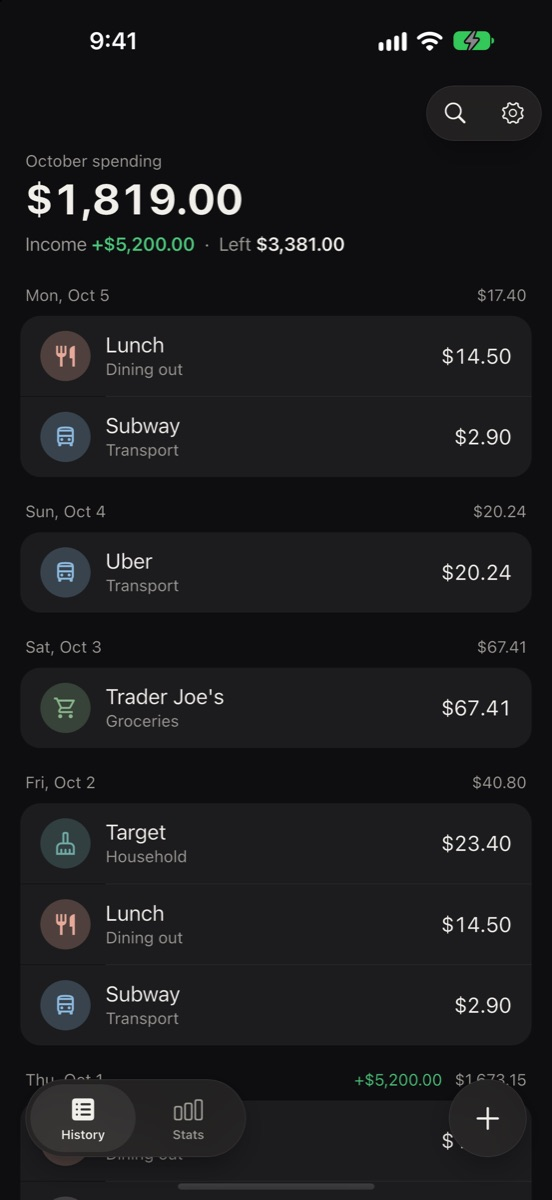
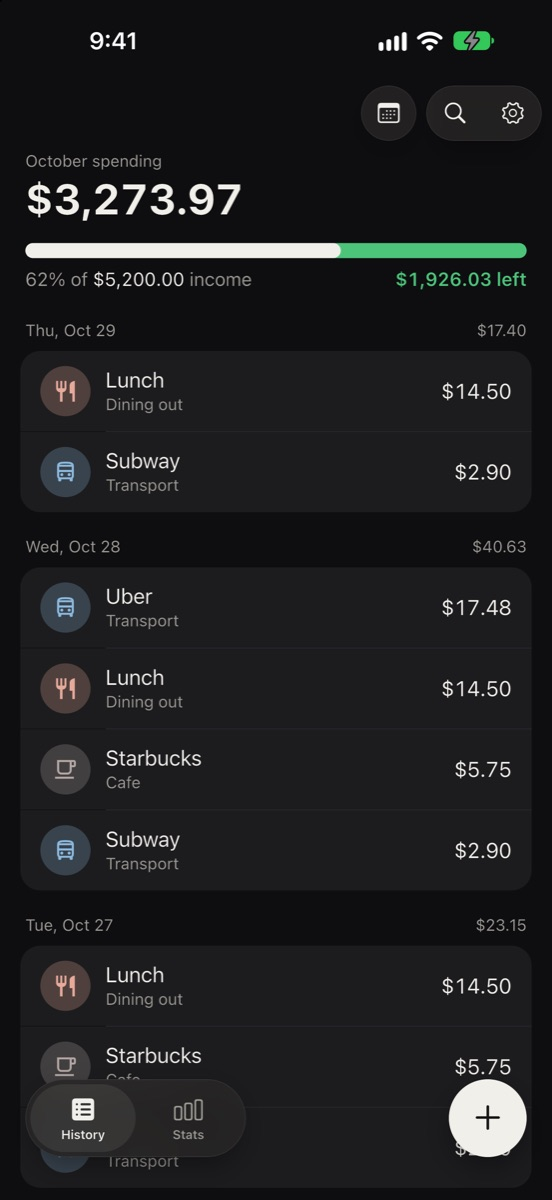
Landing: new Home screenshots and link-preview cards
- Phone screens and share cards show the redesigned Home
- Move the "Grouped by day" marker to the day header
- Slightly darker muted text and neutral eyebrows for contrast

diff --git a/index.html b/index.html
@@ -33,7 +33,7 @@
   /* App tokens (lib/shared/theme/app_colors.dart) */
   :root {
     --bg: #F6F4EE; --surface: #FFFFFF; --muted-surface: #ECE9E1;
-    --text: #22211F; --muted: #6F6E6A; --line: #E2DED5;
+    --text: #22211F; --muted: #686763; --line: #E2DED5;
     --ink: #22211F; --on-ink: #F6F4EE; --green: #1A8048;
     --band: #22211F; --band-text: #F1EFEA; --band-muted: #A9A69E;
     --shadow: 0 30px 60px -20px rgba(40,30,10,.28), 0 12px 24px -12px rgba(40,30,10,.18);
@@ -129,7 +129,7 @@
   .intro p { color: var(--muted); font-size: 19px; margin: 0; }
   .pillar { display: grid; grid-template-columns: 1fr 1fr; gap: 72px; align-items: center; padding-block: 24px 120px; }
   .pillar.flip .copy { order: 2; }
-  .eyebrow { display: flex; align-items: center; gap: 10px; font-size: 15px; font-weight: 700; color: var(--green); margin-bottom: 14px; }
+  .eyebrow { display: flex; align-items: center; gap: 10px; font-size: 15px; font-weight: 700; color: var(--text); margin-bottom: 14px; }
   .eyebrow .n { font-family: "Inter Tight", sans-serif; font-variant-numeric: tabular-nums; color: var(--muted); font-weight: 600; }
   .pillar h3 { font: 800 clamp(28px, 3.2vw, 40px)/1.12 var(--f-head); letter-spacing: -0.03em; margin: 0 0 16px; }
   :lang(ko) .pillar h3 { font-weight: 700; line-height: 1.25; }
@@ -154,7 +154,7 @@
   /* Yours band */
   .band { background: var(--band); color: var(--band-text); border-radius: 36px; margin-bottom: 120px; overflow: hidden; }
   .band .inner { display: grid; grid-template-columns: 1.1fr .9fr; gap: 48px; align-items: center; padding: 72px 64px 0; }
-  .band .eyebrow { color: #4CC47A; }
+  .band .eyebrow { color: var(--band-text); }
   .band .eyebrow .n { color: var(--band-muted); }
   .band h3 { font: 800 clamp(30px, 3.6vw, 46px)/1.1 var(--f-head); letter-spacing: -0.03em; margin: 0 0 18px; }
   :lang(ko) .band h3 { font-weight: 700; line-height: 1.25; }
@@ -354,7 +354,7 @@
     <div class="shot">
       <div class="annot" data-side="right">
         <span class="dot" style="top:16.5%">1</span>
-        <span class="dot" style="top:24.8%">2</span>
+        <span class="dot" style="top:28.2%">2</span>
         <span class="dot" style="top:93%">3</span>
         <div class="phone"><img data-screen="01_home" data-alt="f2alt" src="assets/screens/en/01_home.jpg" alt="The home screen" loading="lazy"></div>
       </div>

diff --git a/privacy.html b/privacy.html
@@ -5,7 +5,7 @@
 <meta name="viewport" content="width=device-width, initial-scale=1">
 <title>margin 개인정보 처리방침 · Privacy Policy</title>
 <style>
-  :root { --bg: #F6F4EE; --text: #22211F; --muted: #6F6E6A; --line: #E2DED5; }
+  :root { --bg: #F6F4EE; --text: #22211F; --muted: #686763; --line: #E2DED5; }
   @media (prefers-color-scheme: dark) {
     :root { --bg: #0E0E10; --text: #F1EFEA; --muted: #9C9A93; --line: #2A2926; }
   }
